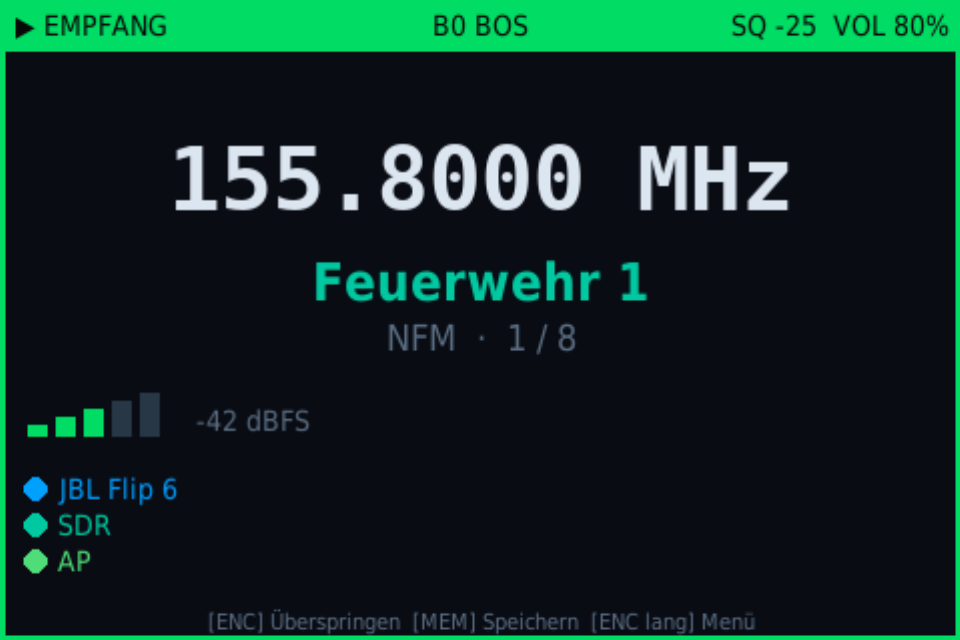
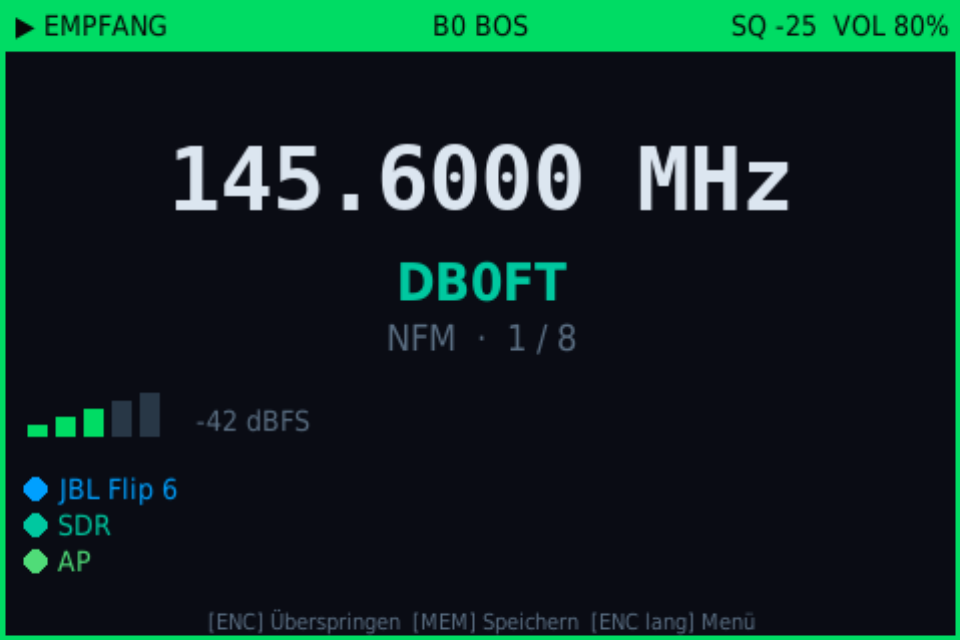
docs: Screenshot-Kanal auf DB0FT 145.600 MHz geändert

Changed region(s): [[0.3125, 0.4062, 0.6875, 0.4688], [0.2188, 0.2188, 0.2812, 0.3438], [0.375, 0.2188, 0.4375, 0.3125]]

diff --git a/render_screenshots.py b/render_screenshots.py
@@ -47,11 +47,11 @@ def _base_status(**overrides):
     s = {
         "state":       "IDLE",
         "scanning":    False,
-        "channel":     "Feuerwehr 1",
-        "freq":        155_800_000,
-        "freq_mhz":    "155.8000",
+        "channel":     "DB0FT",
+        "freq":        145_600_000,
+        "freq_mhz":    "145.6000",
         "mode":        "NFM",
-        "group":       "BOS",
+        "group":       "HAM",
         "ch_index":    0,
         "ch_total":    8,
         "squelch_open": False,